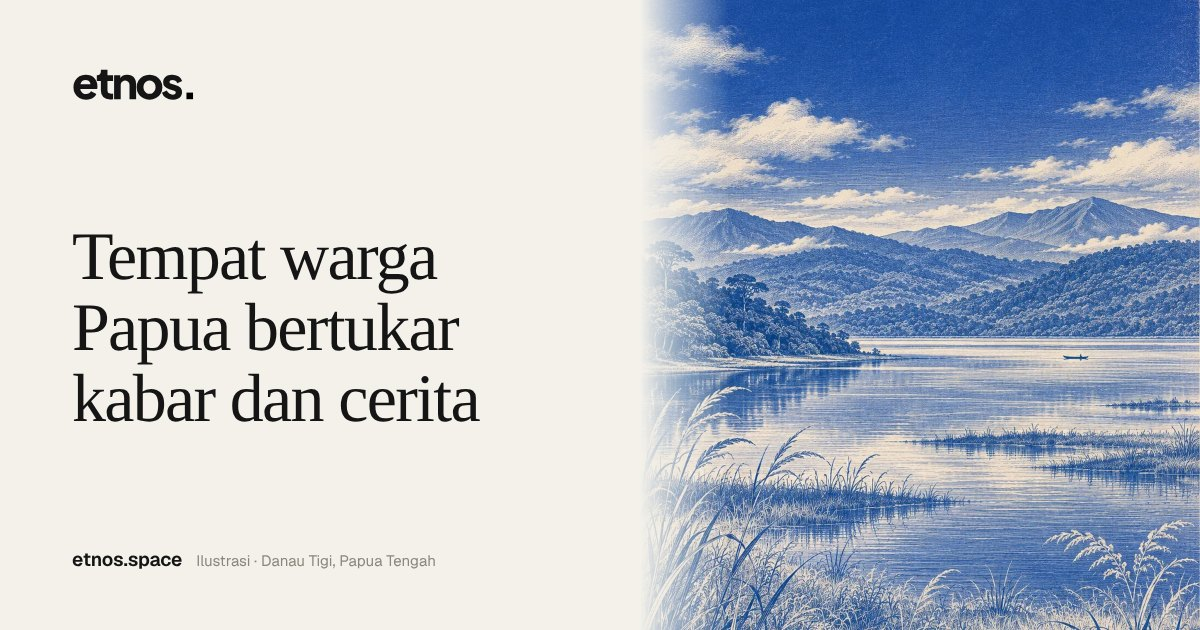
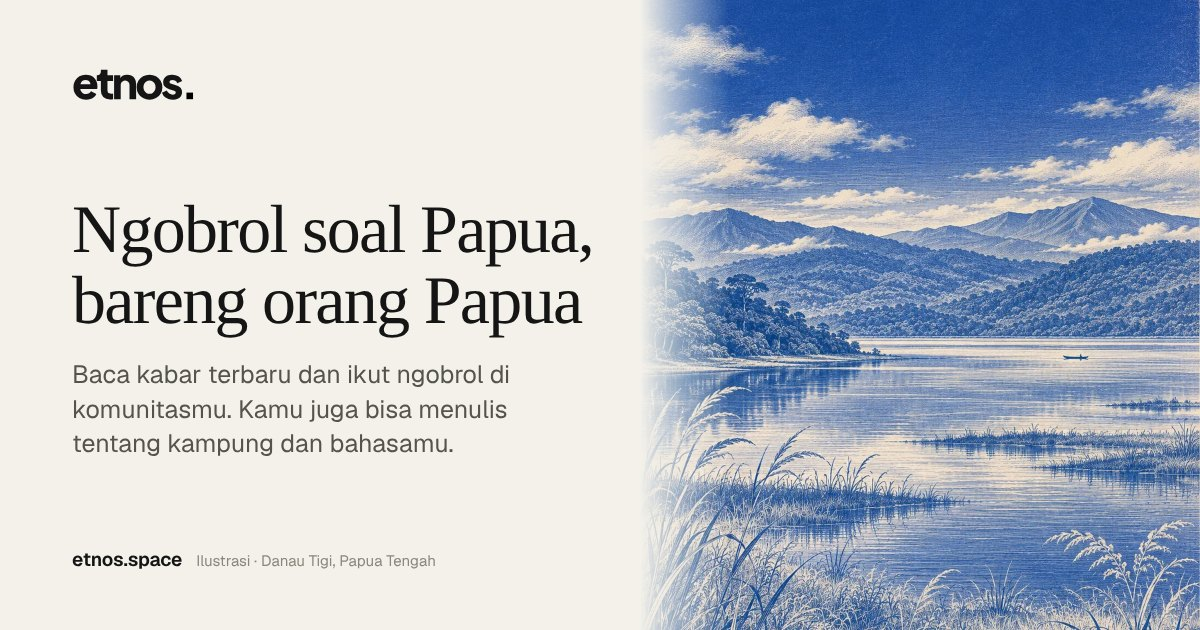
Home preview card: casual headline with a visible subtitle
Claude-Session: https://claude.ai/code/session_015shwuDdzuYH8FL2aSLKgWC

Changed region(s): [[0.0617, 0.3317, 0.4933, 0.7238]]

diff --git a/src/share.ts b/src/share.ts
@@ -1,12 +1,12 @@
 /** Public sharing projection. Callers provide anonymous, bounded reads only. */
 export type Share = {title:string;description:string;path:string;image:string;imageAlt:string;type:'website'|'article';index:boolean;article?:{title:string;text:string;citations:string[];updated:number;reviewed:boolean}}
-const description='Tempat warga Papua bertukar kabar dan cerita.'
-export const defaultShare=():Share=>({title:'ETNOS',description,path:'/',image:'/share/default.jpg',imageAlt:'ETNOS — '+description,type:'website',index:false})
+const description='Baca kabar terbaru dan ikut ngobrol di komunitasmu. Kamu juga bisa menulis tentang kampung dan bahasamu.'
+export const defaultShare=():Share=>({title:'ETNOS',description,path:'/',image:'/share/default.jpg',imageAlt:'ETNOS. '+description,type:'website',index:false})
 export function previewText(value:unknown,max=240){return String(value??'').replace(/!\[[^\]]*\]\([^)]*\)/g,' ').replace(/\[([^\]]+)\]\([^)]*\)/g,'$1').replace(/<[^>]*>/g,' ').replace(/[#*_`~>|]/g,'').replace(/[\u0000-\u001f\u007f]/g,' ').replace(/\s+/g,' ').trim().slice(0,max)}
 const uuid=/^[a-f0-9-]{36}$/
 type Read=(path:string)=>Promise<any>
 const pages:Record<string,[string,string]>={
- '/':['ETNOS',description],'/explore':['Jelajah ETNOS','Lihat apa yang sedang dibicarakan warga Papua hari ini.'],
+ '/':['ETNOS · Ngobrol soal Papua, bareng orang Papua',description],'/explore':['Jelajah ETNOS','Lihat apa yang sedang dibicarakan warga Papua hari ini.'],
  '/news':['Kabar · ETNOS','Kabar terbaru dari Papua beserta sumber aslinya.'],'/communities':['Komunitas · ETNOS','Cari komunitas yang cocok, lalu ikut ngobrol.'],
  '/groups':['Organisasi · ETNOS','Ruang dan karya bersama dari organisasi.'],'/wiki':['Pengetahuan bersama · ETNOS','Halaman tentang Papua yang ditulis dan diperiksa bersama warga.'],
  '/voices':['Suara komunitas · ETNOS','Pertanyaan, jajak pendapat dan tindak lanjut komunitas.'],'/work':['Kerja publik · ETNOS','Karya, laporan dan tindak lanjut yang disponsori.'],'/board':['Lajur · ETNOS','Jelajahi percakapan dalam beberapa linimasa.'],

diff --git a/apps/web/index.html b/apps/web/index.html
@@ -9,7 +9,7 @@
     <meta name="theme-color" content="#080a10" />
     <meta
       name="description"
-      content="Tempat warga Papua bertukar kabar dan cerita."
+      content="Baca kabar terbaru dan ikut ngobrol di komunitasmu. Kamu juga bisa menulis tentang kampung dan bahasamu."
     />
     <script src="/assets/appearance-init.js"></script>
     <link rel="preload" href="./node_modules/@fontsource-variable/geist/files/geist-latin-wght-normal.woff2" as="font" type="font/woff2" crossorigin />
